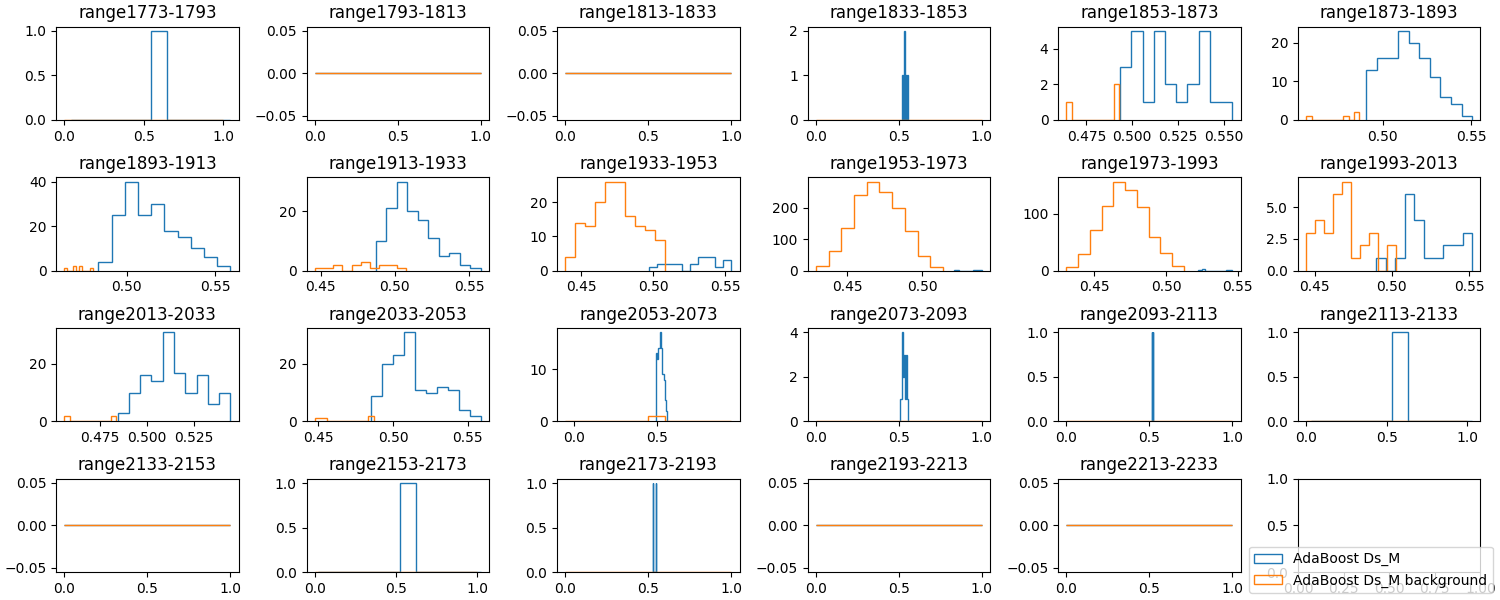
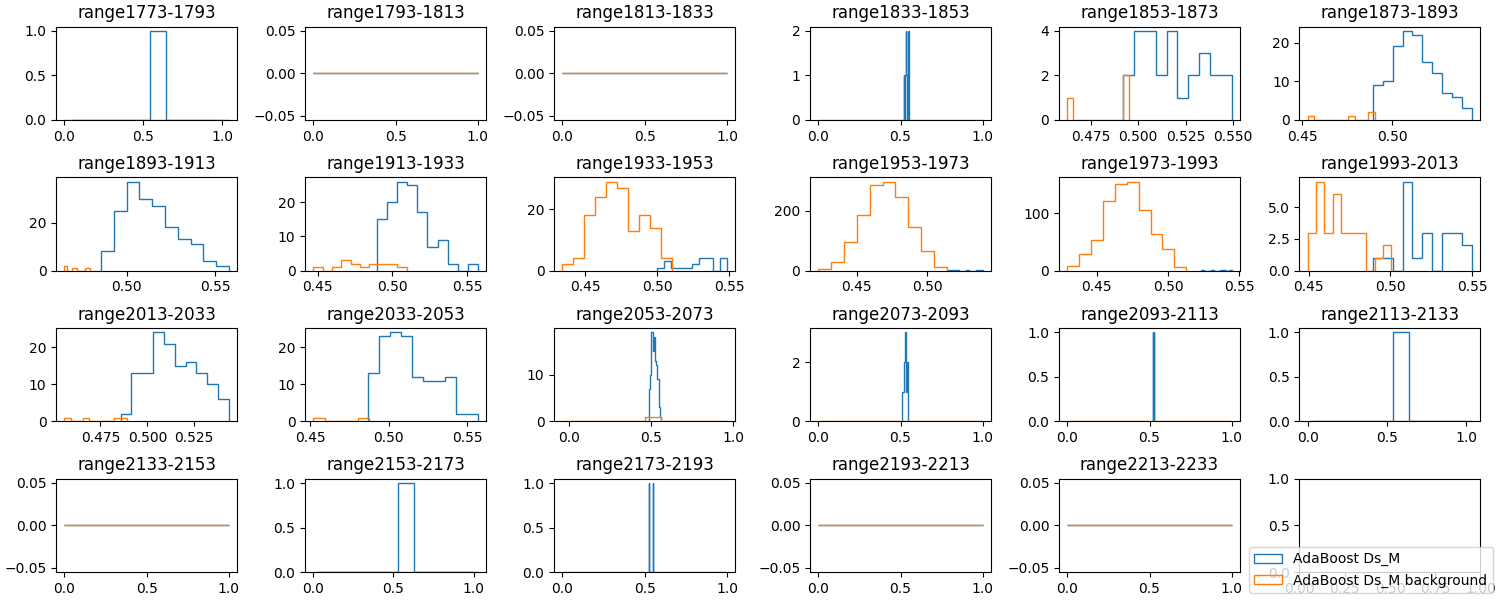
changes

diff --git a/plot_correl.py b/plot_correl.py
@@ -1,5 +1,5 @@
 import pickle
-import numpy as numpy 
+import numpy as np 
 import pandas as pd
 import matplotlib.pyplot as plt
 
@@ -8,12 +8,18 @@ with open('models.pickle','rb') as f:
 
 with open('sets.pickle','rb') as f:
 	sets = pickle.load(f)
-
 vars = ['etap_IPCHI2_OWNPV', 'etap_FDCHI2_OWNPV', 'etap_VCHI2PERDOF', 'etap_PT', 'Ds_IPCHI2_OWNPV', 'Ds_FDCHI2_OWNPV', 'Ds_VCHI2PERDOF', 'Ds_PT', 'pi_PT', 'pi_IPCHI2_OWNPV', 'pip_eta_PT', 'pip_eta_IPCHI2_OWNPV', 'pim_eta_PT', 'pim_eta_IPCHI2_OWNPV', 'mup_PT', 'mup_IPCHI2_OWNPV', 'mum_PT', 'mum_IPCHI2_OWNPV']
 correlation = ['etap_M','Ds_M']
 
-model = models[0]
+def bins_labels(bins, **kwargs):
+    bin_w = (max(bins) - min(bins)) / (len(bins) - 1)
+    plt.xticks(np.arange(min(bins)+bin_w/2, max(bins), bin_w), bins, **kwargs)
+    plt.xlim(bins[0], bins[-1])
+
+#Get fold 0 
 set_aux = sets[0]
+model = models[0]
+
 etap = set_aux['X_test']['etap_M'].to_list()
 ds = set_aux['X_test']['Ds_M'].to_list()
 predictions = {'AdaBoost':model['pred'],'etap_M':etap, 'Ds_M': ds}
@@ -48,37 +54,28 @@ minMass = min(mass)
 for i in range(int(minMass),int(maxMass) - 50,50):
 	aux_s_e['range'+str(i)+'-'+str(i+50)] = signal_d[(signal_d['etap_M']>i) & (signal_d['etap_M']<i+50)]	
 	aux_b_e['range'+str(i)+'-'+str(i+50)] = background_d[(background_d['etap_M']>i) & (background_d['etap_M']<i+50)]		
-fig, axs = plt.subplots(2, 2, figsize=(15, 6), constrained_layout=True, facecolor='w', edgecolor='k')
-i = 0
+#Print DS_m
+fig = plt.figure()
+plt.style.use('Solarize_Light2')
 
-axs = axs.ravel()
+for k in aux_s.keys():
+	plt.title("Signal correlation")
+	values, bins, _ = plt.hist(aux_s[k]['AdaBoost'],histtype='step', align='left', rwidth=1, bins=10,label=k)
+	#bins_labels(bins, fontsize=20)
+	area = sum(np.diff(bins)*values)
+	print(area)
+plt.legend(loc=4)	
+fig.savefig("images/Ds_M_signal.png")		
+plt.show()	
+fig = plt.figure()
+#plt.style.use('ggplot')
+for k in aux_b.keys():
+	plt.title("Background correlation")
+	values, bins, _ = plt.hist(aux_b[k]['AdaBoost'],histtype='step', align='left', rwidth=1,bins=10,label=k)
+	#bins_labels(bins, fontsize=20)
+	area = sum(np.diff(bins)*values)
+	print(area)
+plt.legend(loc=4)	
+fig.savefig("images/Ds_M_background.png")		
+plt.show()	
 
-for m in aux_s.keys():
-	if not bool(m) :
-		continue
-	for k in signal_d.keys():
-		if k != 'Ds_M' and k != 'etap_M':			
-			axs[i].hist(aux_s[m][k],histtype='step',label=k+" Ds_M")
-			axs[i].hist(aux_b[m][k],histtype='step',label=k+" Ds_M background")
-			axs[i].set_title(m)
-			handles, labels = axs[i].get_legend_handles_labels()			
-	i+=1
-fig.legend(handles, labels, loc='lower right')
-fig.savefig("Ds_Maux.png")		
-plt.show()			
-fig, axs = plt.subplots(2, 2, figsize=(15, 6), constrained_layout=True, facecolor='w', edgecolor='k')
-i = 0
-axs = axs.ravel()
-for m in aux_s_e.keys():
-	if not bool(m) :
-		continue
-	for k in signal_d.keys():
-		if k != 'Ds_M' and k != 'etap_M':			
-			axs[i].hist(aux_s_e[m][k],histtype='step',label=k+" etap_M")
-			axs[i].hist(aux_b_e[m][k],histtype='step',label=k+" etap_M background")
-			axs[i].set_title(m)
-			handles, labels = axs[i].get_legend_handles_labels()			
-	i+=1	
-fig.legend(handles, labels, loc='lower right')
-fig.savefig("etap_Maux.png")		
-plt.show()		
